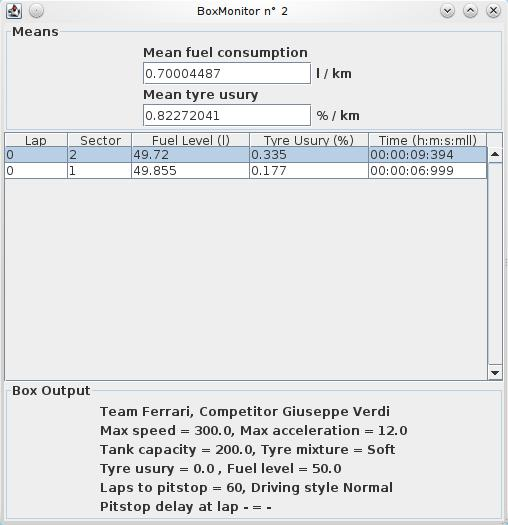
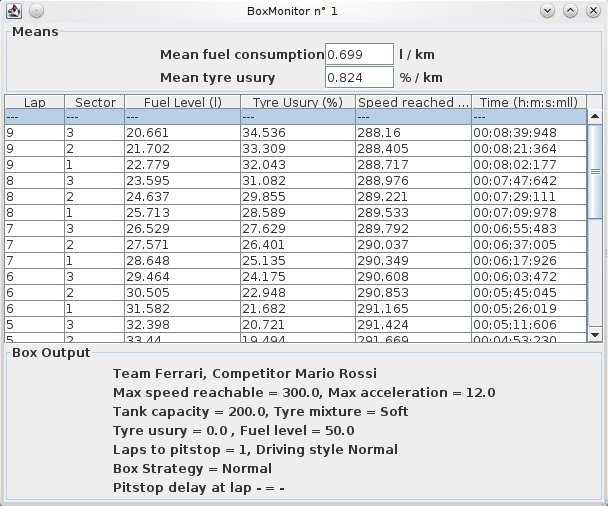
modifiche alla gui

Changed region(s): [[0.0, 0.0, 1.0, 0.9783], [0.3839, 0.0, 0.561, 0.0296]]

diff --git a/src/java/GUI/Box/BoxScreen.java b/src/java/GUI/Box/BoxScreen.java
@@ -43,8 +43,8 @@ public class BoxScreen extends Thread{
     private GridBagConstraints meanPanelGrid;
     private GridBagConstraints outPanelGrid;
 
-    private JTextField textBoxGas = new JTextField("",10);
-    private JTextField textBoxTyre = new JTextField("",10);
+    private JTextField textBoxGas = new JTextField("",6);
+    private JTextField textBoxTyre = new JTextField("",6);
     private JLabel labelGas = new JLabel(" l / km ");
     private JLabel labelTyre = new JLabel(" % / km ");
     private JLabel labelGasExpl = new JLabel("Mean fuel consumption");
@@ -77,7 +77,7 @@ public class BoxScreen extends Thread{
     private Double gasLevelStrategyValue;
     private Integer pitstopLapValue;
     private float pitstopDelayValue;
-
+    private Double maxSpeedReachedValue;
 
     private String teamValue;
     private String firstnameValue;
@@ -90,6 +90,7 @@ public class BoxScreen extends Thread{
     private Double gasLevelCarValue;
     private String mixtureValue;
     private String typetyreValue;
+    private String boxStrategyString;
 
     public BoxScreen(String id_In, String xmlCompetitor, String boxStrategyStringIn){
 	id=id_In;
@@ -125,7 +126,7 @@ public class BoxScreen extends Thread{
 	outPanelGrid.gridy = 2;
 	outPanelGrid.ipady = 5;
 	outPanel.add(labelInfo_3, outPanelGrid);
-	outPanelGrid.fill = GridBagConstraints.HORIZONTAL;"+pitstopLapValue.toString()+"
+	outPanelGrid.fill = GridBagConstraints.HORIZONTAL;
 	outPanelGrid.gridx = 0;
 	outPanelGrid.gridy = 3;
 	outPanelGrid.ipady = 5;
@@ -205,7 +206,7 @@ public class BoxScreen extends Thread{
 	column.setPreferredWidth(20);
 
 	tablePanel = new JScrollPane(outTable);
-	tablePanel.setPreferredSize(new Dimension(500, 250));
+	tablePanel.setPreferredSize(new Dimension(600, 250));
 
 	tablePanel.setVerticalScrollBar(new JScrollBar());
 	tablePanel.setVerticalScrollBarPolicy(JScrollPane.VERTICAL_SCROLLBAR_ALWAYS);
@@ -225,7 +226,7 @@ public class BoxScreen extends Thread{
 	parent.setDefaultCloseOperation(JFrame.EXIT_ON_CLOSE);
 	try{
 	    labelInfo_1.setText("Team "+teamValue+", Competitor "+firstnameValue+" "+lastnameValue);
-	    labelInfo_2.setText("Max speed = "+maxspeedValue.toString()+", Max acceleration = "+maxaccelerationValue.toString());
+	    labelInfo_2.setText("Max speed reachable = "+maxspeedValue.toString()+", Max acceleration = "+maxaccelerationValue.toString());
 	    labelInfo_3.setText("Tank capacity = "+gastankcapacityValue.toString()+ ", Tyre mixture = "+mixtureValue);
 	    labelInfo_4.setText("Tyre usury = "+tyreUsuryCarValue.toString()+" , Fuel level = "+gasLevelCarValue.toString());
 	    labelInfo_6.setText("Laps to pitstop = - , Driving style "+styleValue);
@@ -255,13 +256,13 @@ public class BoxScreen extends Thread{
 		double tyre=(double)(tyreUsuryValue);
 		double speed=(double)(maxSpeedReachedValue);
 		double meanGas=(double)(meanGasConsumptionValue);
-		double meanTyre=(double)(meanTyreUsuryValue);
+		double meanTyreU=(double)(meanTyreUsuryValue);
 		int decimal=1000; //3 cifre decimali
 		int  gasInt= (int)(decimal*gas);
 		int tyreInt = (int)(decimal*tyre);
 		int speedInt = (int)(decimal*speed);
 		int meanGasInt = (int)(decimal*meanGas);
-		int meanTyre = (int)(decimal*meanTyre);
+		int meanTyreInt = (int)(decimal*meanTyreU);
 		double gasPrint=(double)gasInt/(double)decimal;
 		double tyrePrint=(double)tyreInt/(double)decimal;
 		double speedPrint=(double)speedInt/(double)decimal;
@@ -281,8 +282,8 @@ public class BoxScreen extends Thread{
 		    // outTable.setAutoResizeMode(JTable.AUTO_RESIZE_LAST_COLUMN);
 		    selectionModel.setSelectionInterval(0,0);
 		    System.out.println(temp);
-		    textBoxGas.setText(meanGasPrint);//aggiorno consumo medio
-		    textBoxTyre.setText(meanTyrePrint);//aggiorno velocità media
+		    textBoxGas.setText(new Double(meanGasPrint).toString());//aggiorno consumo medio
+		    textBoxTyre.setText(new Double(meanTyrePrint).toString());//aggiorno velocità media
 		    if (pitstopLapValue !=null){
 			labelInfo_6.setText("Laps to pitstop = "+pitstopLapValue.toString()+", Driving style "+styleValue);
 			if (pitstopLapValue == 0 && pitstopDelayValue !=-1.0){
@@ -290,7 +291,7 @@ public class BoxScreen extends Thread{
 			    pitstopDelayValue = (float)-1.0;
 			}
 			labelInfo_1.setText("Team "+teamValue+", Competitor "+firstnameValue+" "+lastnameValue);
-			labelInfo_2.setText("Max speed = "+maxspeedValue.toString()+", Max acceleration = "+maxaccelerationValue.toString());
+			labelInfo_2.setText("Max speed reachable = "+maxspeedValue.toString()+", Max acceleration = "+maxaccelerationValue.toString());
 			labelInfo_3.setText("Tank capacity = "+gastankcapacityValue.toString()+ ", Tyre mixture = "+mixtureValue);
 			labelInfo_4.setText("Tyre usury = "+tyreUsuryCarValue.toString()+" , Fuel level = "+gasLevelCarValue.toString());
 			outPanel.updateUI();
@@ -377,7 +378,7 @@ public class BoxScreen extends Thread{
 	    meanGasConsumptionValue = new Double(getCharacterDataFromElement(line));
 	    System.out.println("meanGasConsumption :"+meanGasConsumptionValue);
 	    
-	    NodeList maxSpeedReached = element.getElementByTagName("maxSpeed");
+	    NodeList maxSpeedReached = element.getElementsByTagName("maxSpeed");
 	    line = (Element) maxSpeedReached.item(0);
 	    maxSpeedReachedValue = new Double(getCharacterDataFromElement(line));
 	    System.out.println("maxSpeed :"+maxSpeedReachedValue);

diff --git a/src/java/GUI/TV/screenTv.java b/src/java/GUI/TV/screenTv.java
@@ -348,7 +348,7 @@ public class ScreenTv extends Thread implements TvPanelInterface{
 
 		    }
 		    updTime = updTime + interval;
- 		     //sleep(999);
+ 		    sleep((long)((interval-0.001)*1000));
 		    for(int boolArray=0; boolArray<Array.getLength(endRace); boolArray++){
 			if(endRace[boolArray]==false){//controllo se tutti hanno finito la gara
 			    exit=false;
